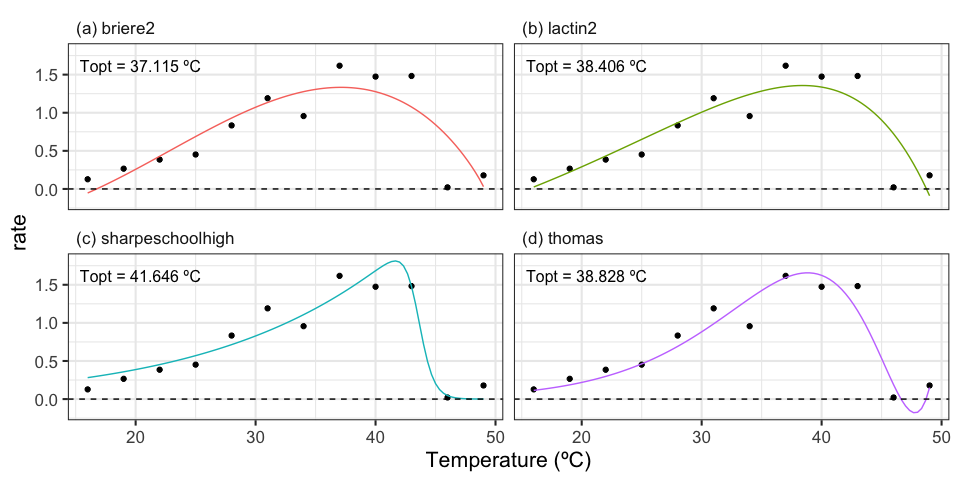
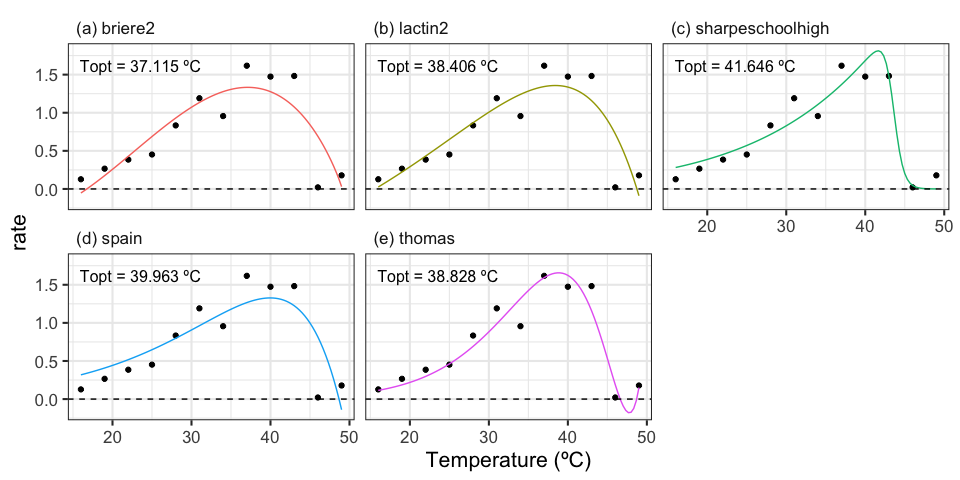
Define Spain 1982 function

diff --git a/README.md b/README.md
@@ -33,7 +33,9 @@ We can now load in the data and the packages to fit the TPCs
 ``` r
 # load in packages
 library(purrr)
+#> Warning: package 'purrr' was built under R version 3.5.2
 library(dplyr)
+#> Warning: package 'dplyr' was built under R version 3.5.2
 library(tidyr)
 library(ggplot2)
 library(nls.multstart)
@@ -98,6 +100,12 @@ d_models <- group_by(d_1, curve_id, growth.temp, process, flux) %>%
                                            iter = 500,
                                            start_lower = c(tmin = 0, tmax = 20, a = -10, b = -10),
                                            start_upper = c(tmin = 20, tmax = 50, a = 10, b = 10),
+                                           supp_errors = 'Y')),
+            spain = map(data, ~nls_multstart(rate ~ spain_1982(temp = temp, a, b, c, r0),
+                                           data = .x,
+                                           iter = 500,
+                                           start_lower = c(a = -1, b = -1, c = -1, r0 = -1),
+                                           start_upper = c(a = 1, b = 1, c = 1, r0 = 1),
                                            supp_errors = 'Y')))
 ```
 
@@ -116,8 +124,12 @@ d_preds <- d_stack %>%
   mutate(., temp = ifelse(model == 'sharpeschoolhigh', K - 273.15, temp))
 
 # estimate topt
+
+# return NA if the model has not fitted
+get_topt <- possibly(get_topt, NA)
+
 topt <- d_stack %>%
-  mutate(., topt = purrr::map_dbl(output, get_topt)) %>%
+  mutate(., topt = map_dbl(output, get_topt)) %>%
   select(., -c(data, output)) %>%
   mutate(., topt = ifelse(topt > 200, topt - 273.15, topt))
 
